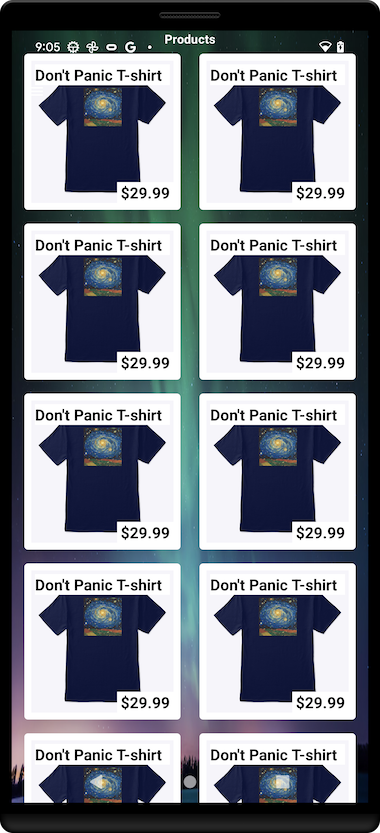
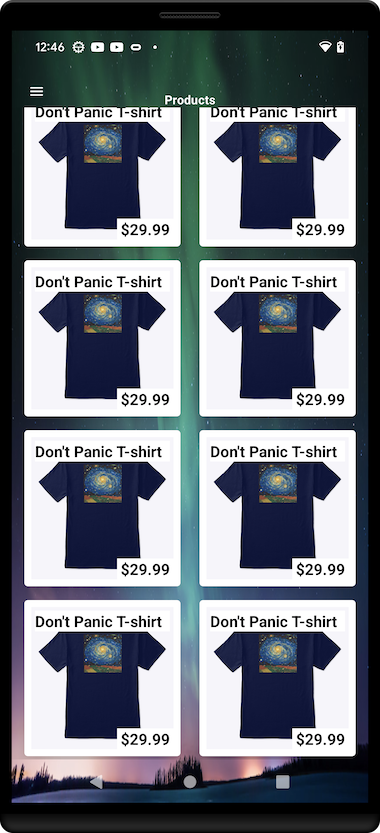
Updated padding for Products screen

diff --git a/unicorn-commerce/app/src/main/java/app/unicornapp/mobile/android/unicorn/ui/screens/ProductsScreen.kt b/unicorn-commerce/app/src/main/java/app/unicornapp/mobile/android/unicorn/ui/screens/ProductsScreen.kt
@@ -8,6 +8,7 @@ import androidx.compose.foundation.layout.Column
 import androidx.compose.foundation.layout.Row
 import androidx.compose.foundation.layout.fillMaxSize
 import androidx.compose.foundation.layout.fillMaxWidth
+import androidx.compose.foundation.layout.padding
 import androidx.compose.material3.MaterialTheme
 import androidx.compose.material3.Text
 import androidx.compose.runtime.Composable
@@ -18,6 +19,7 @@ import androidx.compose.ui.layout.ContentScale
 import androidx.compose.ui.res.painterResource
 import androidx.compose.ui.text.font.FontWeight
 import androidx.compose.ui.tooling.preview.Preview
+import androidx.compose.ui.unit.dp
 import androidx.navigation.NavController
 import androidx.navigation.compose.rememberNavController
 import app.unicornapp.mobile.android.unicorn.R
@@ -44,7 +46,10 @@ fun ProductsScreen(
             modifier = Modifier.matchParentSize()
         )
         Column(
-            Modifier.fillMaxSize(),
+            Modifier.padding(
+                top = 70.dp,
+                bottom = 50.dp
+            ),
             verticalArrangement = Arrangement.Center,
             horizontalAlignment = Alignment.CenterHorizontally
         ) {
